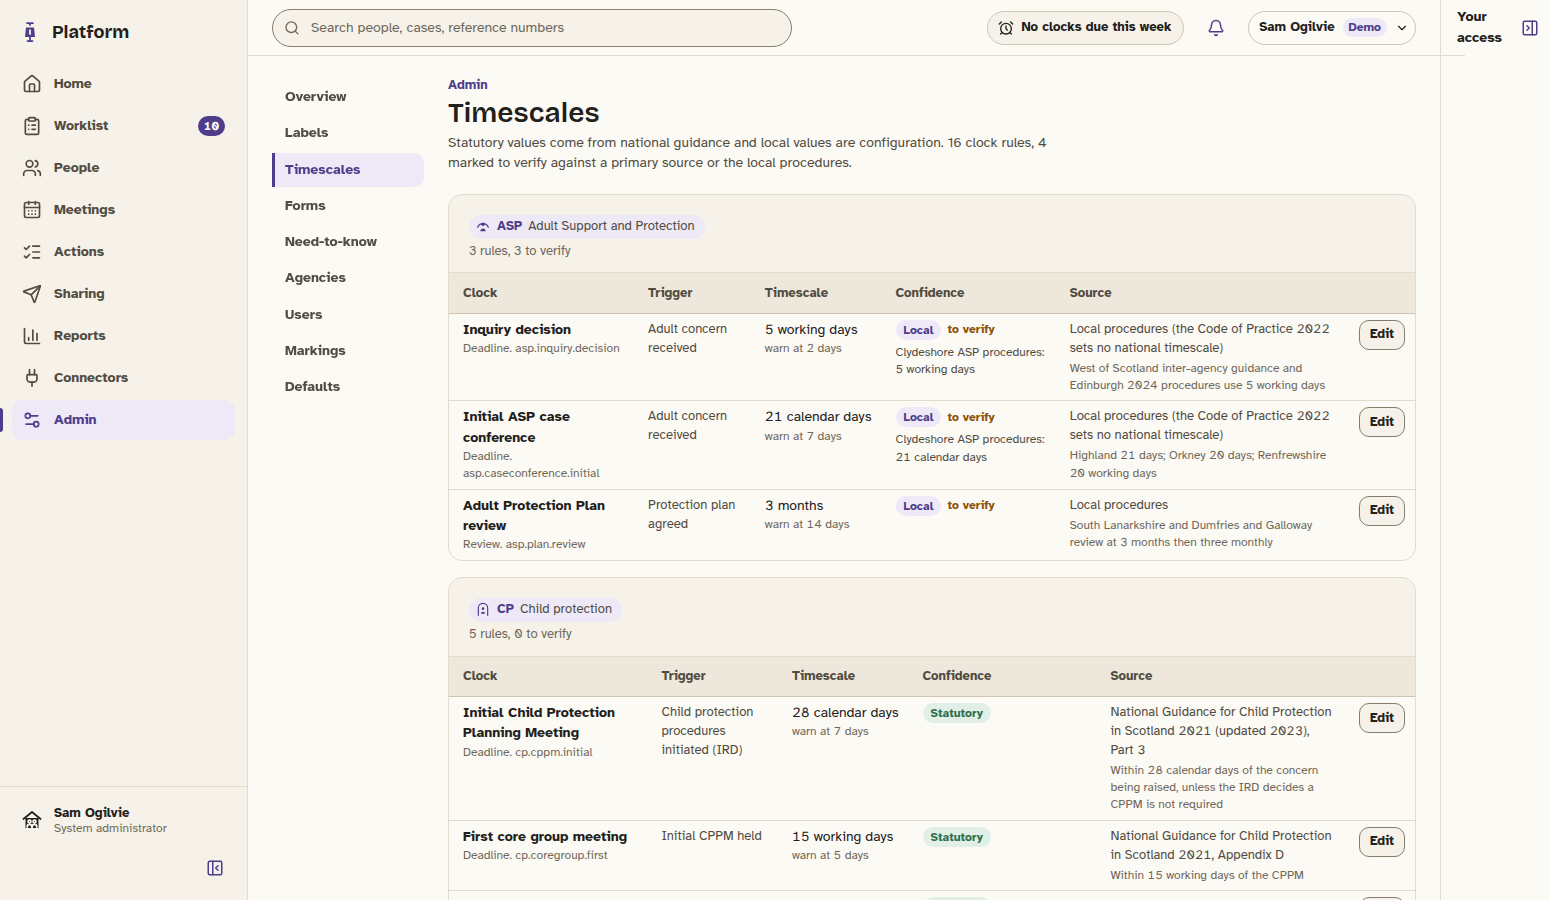
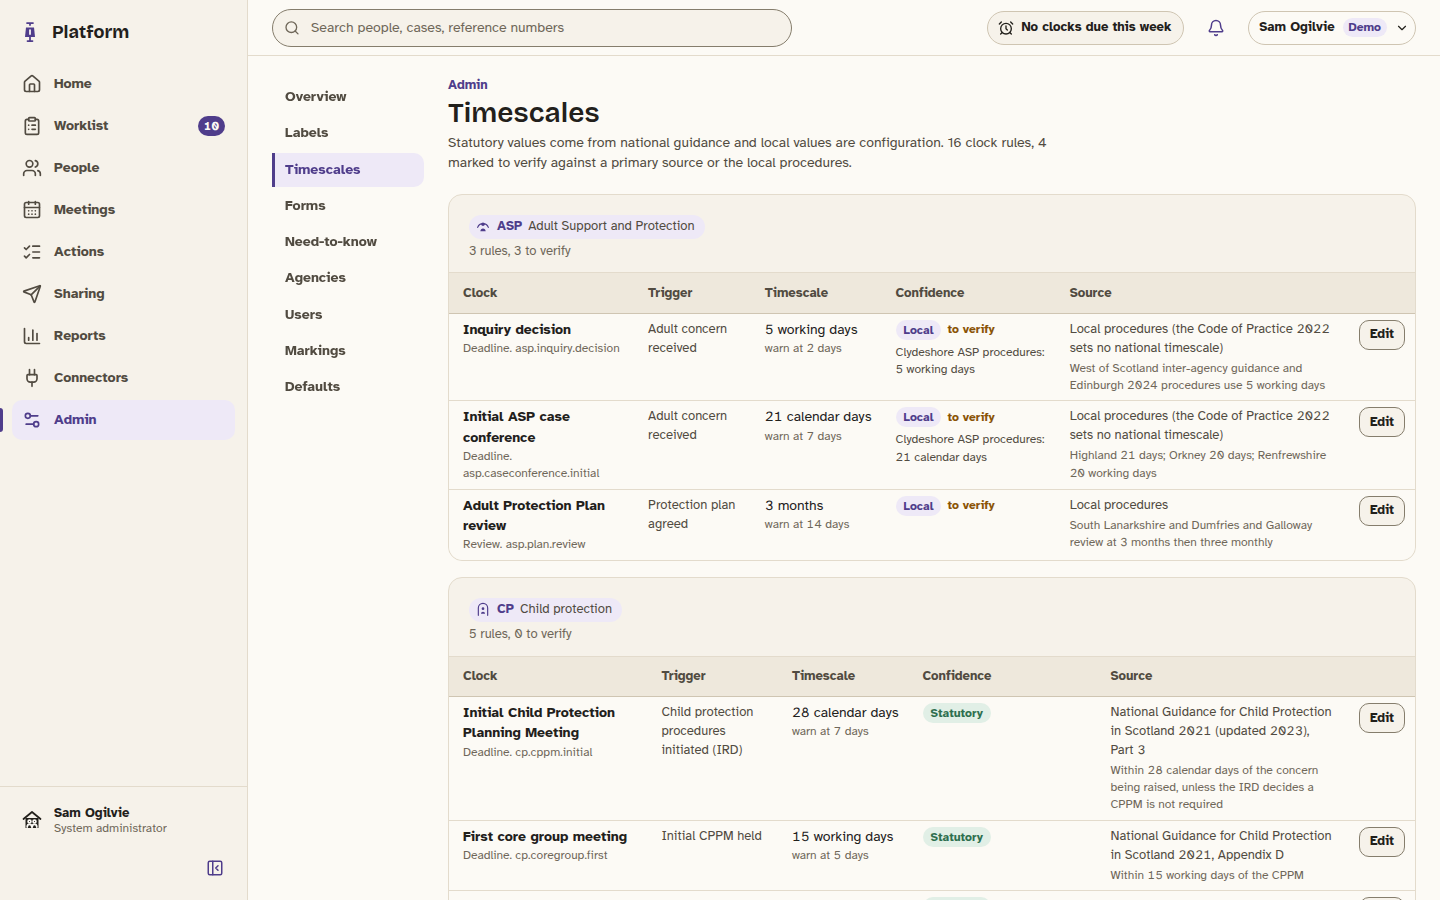
fix(web): remove the drawer from the page in wide and chair layouts
With its grid column at zero the drawer still overflowed the viewport and
stayed in the tab order; it now leaves the document in those layouts.

Claude-Session: https://claude.ai/code/session_01FKeMmPt1Xxg5XsbCUvgkkp

diff --git a/apps/web/styles/layout.css b/apps/web/styles/layout.css
@@ -34,6 +34,12 @@
   grid-template-columns: var(--rail-width-collapsed) minmax(0, 1fr) 0;
 }
 
+/* With the drawer column at zero the drawer itself leaves the page, so nothing overflows or stays in the tab order. */
+.app-shell[data-chrome='minimal'] > aside,
+.app-shell[data-chrome='wide'] > aside {
+  display: none;
+}
+
 .app-content {
   grid-area: content;
   min-width: 0;
